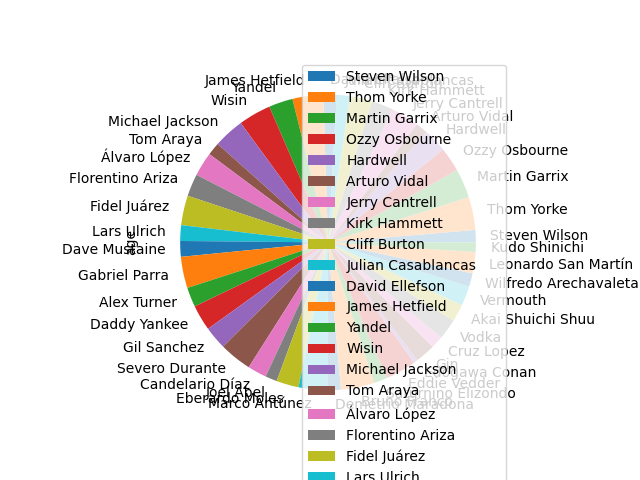
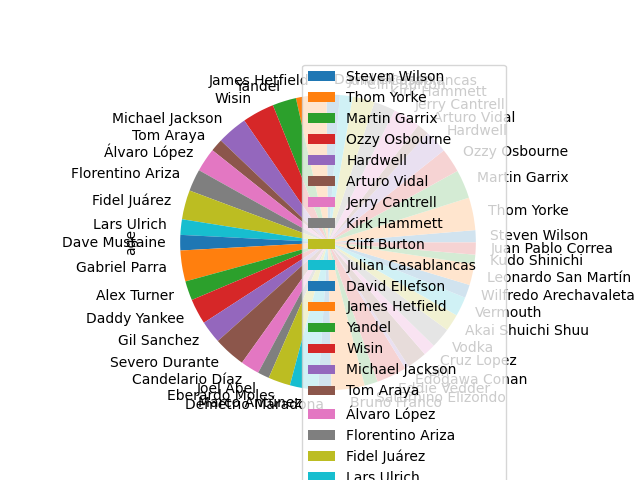
Fixed encoding

diff --git a/Entrega4/api-ejemplo/main.py b/Entrega4/api-ejemplo/main.py
@@ -4,6 +4,7 @@ import pandas as pd
 import matplotlib.pyplot as plt
 import os
 
+
 # Para este ejemplo pediremos la id
 # y no la generaremos automáticamente
 USER_KEYS = ['name', 'age',
@@ -33,6 +34,7 @@ usuarios = db.users
 mensajes = db.messages
 
 
+
 '''
 Usuarios:
   "uid": <id del usuario>,
@@ -45,6 +47,9 @@ Usuarios:
 
 # Iniciamos la aplicación de flask
 app = Flask(__name__)
+
+# Establece encoding como UTF-8
+app.config['JSON_AS_ASCII'] = False
 
 @app.route("/")
 def home():
@@ -240,7 +245,7 @@ def test():
 @app.route("/messages")
 def get_messages():
     '''
-    Obtiene todos los usuarios
+    Obtiene todos los mensajes
     '''
     # Omitir el _id porque no es json serializable
     id1 = request.args.get("id1")
